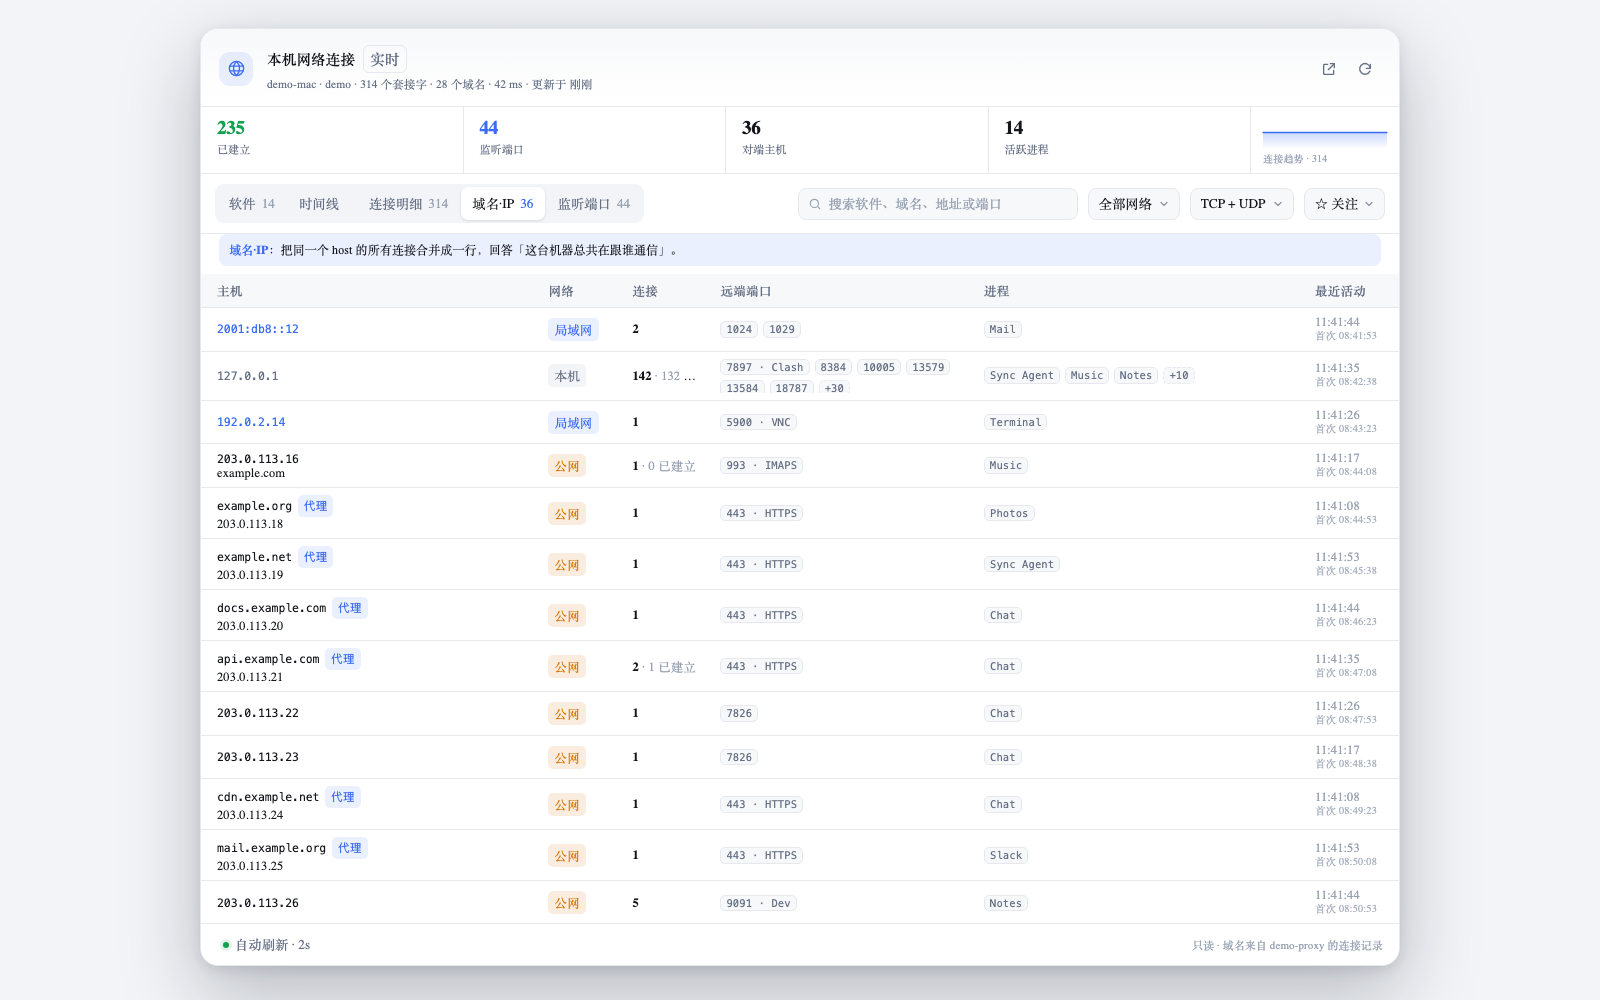
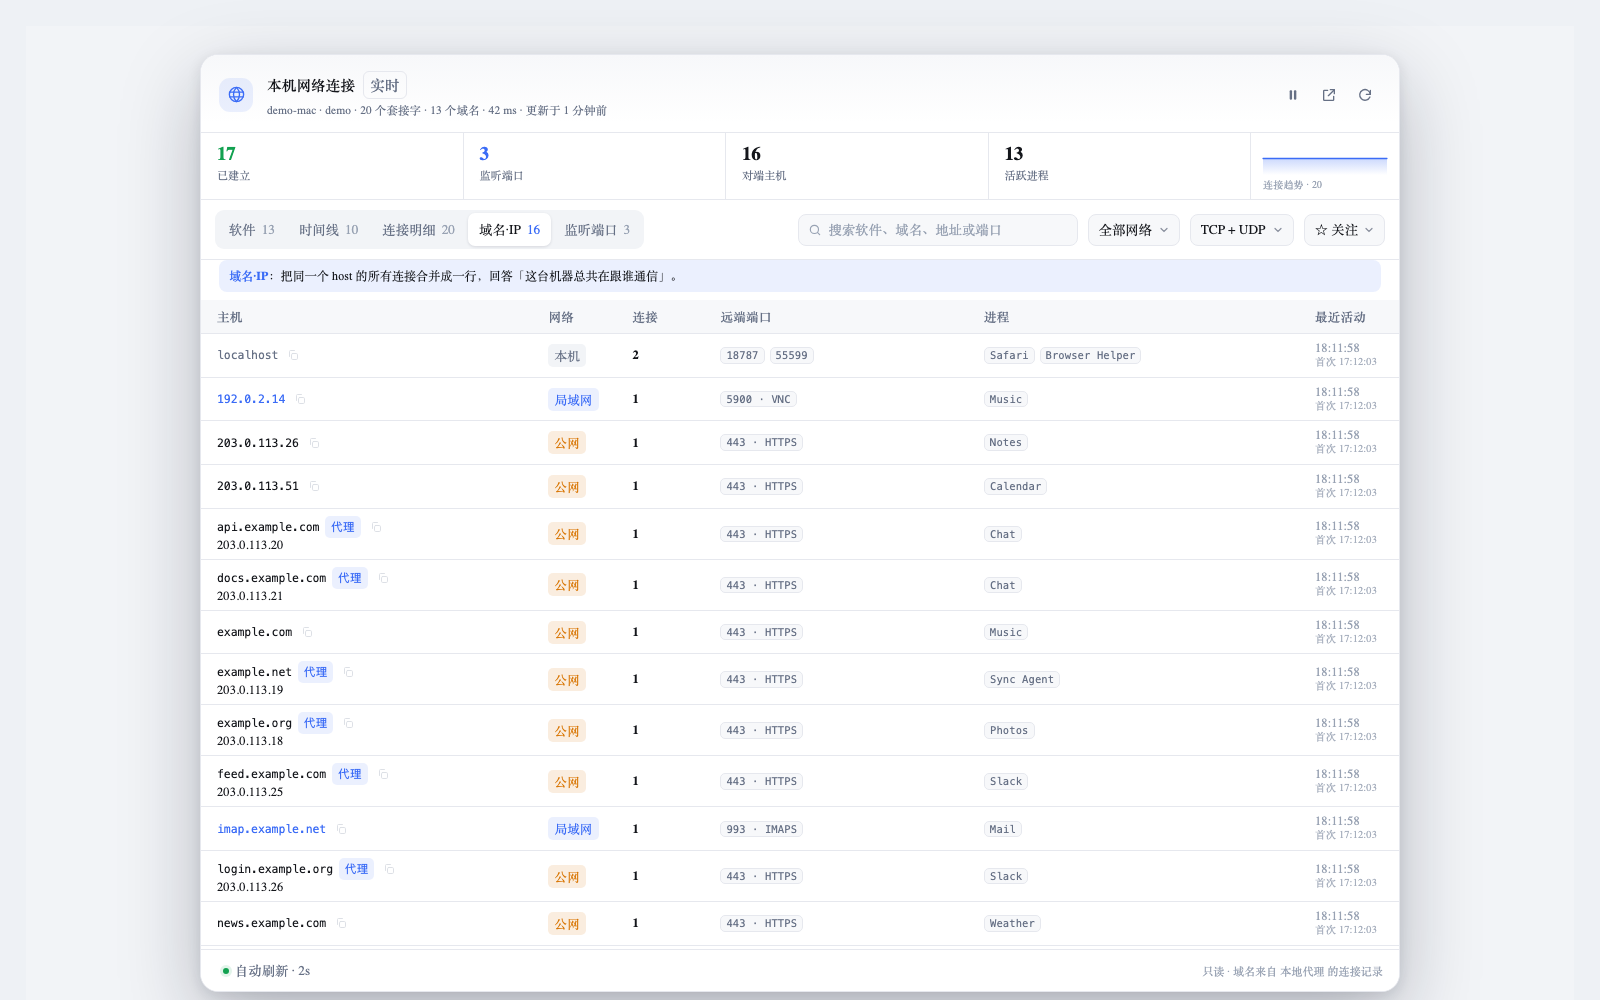
docs: 重做全部截图（合成数据）并更新 README
- 五张视图截图按当前界面重渲染：软件（含复制全部 host）、时间线（含导出）、连接明细、域名·IP、暗色
- 新增暂停态截图，说明「数据停在 HH:MM:SS」
- README 加 npm/license/platform 徽章与「最近更新」，修正宿主插件职责描述
- 暂停时立即刷新副标题，不再挂着「更新于 N 秒前」
- 「软件」详情只对纯 IP 连接单列 IP 行，避免经代理的域名后面跟着一排「—」

diff --git a/lib/ui.js b/lib/ui.js
@@ -1323,6 +1323,8 @@
       if (frozenAt) {
         frozenAt.textContent = view.paused && view.snapshot && view.snapshot.ts ? clockTime(view.snapshot.ts) : '—'
       }
+      // 暂停期间不会再拉快照，副标题必须当场改掉，否则会一直挂着「更新于 12 秒前」。
+      if (view.snapshot && view.snapshot.ts) renderStats()
       if (!view.paused && !options.silent) fetchSnapshot(true)
     }
 
@@ -1593,7 +1595,9 @@
             <td class="nh-when">${clockTime(item.lastSeen)}${gone ? `<span class="nh-rel">${relTime(item.lastSeen)}</span>` : ''}</td>
           </tr>`
       }).join('')
-      const ipRows = [...app.ips].map((ip) => `<tr>
+      // 只在没有域名时单列直连 IP：经代理拿到的目标 IP 已经跟在域名后面，
+      // 再列一行只会是一排「—」，没有信息量。
+      const ipRows = (app.domains.size ? [] : [...app.ips]).map((ip) => `<tr>
             <td><span class="nh-chip ip">${esc(ip)}</span><button class="nh-copy" data-copy="${esc(ip)}" title="复制 ${esc(ip)}" aria-label="复制 ${esc(ip)}">${ICONS.copy}</button></td>
             <td>—</td><td class="nh-when">—</td><td class="nh-when">—</td>
           </tr>`).join('')

diff --git a/README.md b/README.md
@@ -1,5 +1,9 @@
 # dsh-net-hosts
 
+[![npm](https://img.shields.io/npm/v/dsh-net-hosts.svg)](https://www.npmjs.com/package/dsh-net-hosts)
+[![license](https://img.shields.io/badge/license-MIT-blue.svg)](LICENSE)
+[![platform](https://img.shields.io/badge/platform-macOS-lightgrey.svg)](#安装)
+
 查看本机网络连接与对端主机的 DSH 插件。
 
 它把 `lsof -i` 的套接字表整理成两件事：一个随时可以点开的**实时面板**，和一个给 Agent 用的 **`net_connections` 工具**。整个插件只读——不建立连接、不修改配置、没有遥测。数据默认只留在本机内存里（唯一的例外是模型工具，见下面的「隐私」一节）。
@@ -21,6 +25,8 @@
 - 每个视图上方都有一句话解释它和别的视图的区别，不用记概念。
 - 搜索（软件、域名、地址、端口）、按网络范围筛选（公网 / 局域网 / 本机）、按 TCP/UDP 筛选、点表头排序、展开行看完整信息、一键复制地址。
 - **暂停**：面板右上角的 ⏸（或按 `P`，或点底部「自动刷新 · 2s」）把数据定格，顶部出现「已暂停 · 数据停在 14:52:16」；暂停状态会记住，下次打开仍是暂停。刷新时滚动位置和展开的行都不会跳。
+
+  ![已暂停](docs/paused.png)
 - **复制**：表格里的文字可以直接拖选（选中不会触发行点击），每行末尾也有复制按钮，复制 host、IP 或整条地址。想一次拿走某个软件的全部 host？点这一行域名后面的图标，或展开后点「复制全部 host（N）」——一行一个，直接粘到别处。
 - **刚断开的不会立刻消失**：某个 App 下的 host 断开后会标「已断开」保留两分钟，配合暂停足够看清「它刚才在连什么」。
 - 2 秒自动刷新；页面隐藏时自动暂停；也可以手动暂停/刷新。
@@ -79,7 +85,7 @@ dsh plugin --profile web add link:~/dsh-plugins/dsh-net-hosts
 | `/net-hosts/` | 独立页面（Shadow DOM 渲染） |
 | `/net-hosts/ui.js` | 面板脚本 |
 | `/net-hosts/api/snapshot` | 快照 JSON；`?fresh=1` 跳过 700ms 复用窗口 |
-| `/net-hosts/api/health` | `{ ok, name, version }` |
+| `/net-hosts/api/health` | `{ ok, name, version, ui }`（`ui` 是 `ui.js` 的指纹，界面据此自动重载） |
 
 鉴权由插件自己做：Host 必须是回环地址（或 `DSH_NET_HOSTS_TRUSTED_HOSTS` / `DSHW_TRUSTED_HOSTS` 里列出的主机）、拒绝 `Sec-Fetch-Site: cross-site`、Origin 必须与 Host 一致，异常一律按拒绝处理（fail-closed）；存在 `connection` 服务时再叠加它的 `requestRejection`。403 时不返回任何内容。
 
@@ -120,7 +126,16 @@ npm test
 - `lib/proxy.js`：本地代理（Clash / mihomo）控制接口发现、`/connections` 归一化；配置、unix socket、常见端口三种发现方式，失败静默。
 - `lib/client.js`：client bundle，向 DSH 注册侧边栏项与主区域面板。
 - `lib/ui.js`：零依赖的 Shadow DOM 界面（软件 / 时间线 / 连接明细 / 域名·IP / 监听端口 五个视图，其中「软件」按进程聚合），暴露 `window.__DSH_NET_HOSTS_UI__.mount(target, { standalone, embedded })`；内含兼容旧宿主的客户端事件推导与按名归并兜底。
-- `lib/index.js`：宿主插件，注册路由、注入入口、注册模型工具。
+- `lib/index.js`：宿主插件，注册 HTTP 路由、注册模型工具、把 client bundle 接进侧边栏。
+
+## 最近更新
+
+- **0.7.1**：时间线可以导出 CSV / JSON，也能一键复制全部 host；暂停后副标题立刻显示「数据停在 …」。
+- **0.7.0**：去掉页面里的悬浮胶囊，入口只保留侧边栏；`net_connections` 增加 `redact`，可以只把地址交给模型；README 补「隐私」一节。
+- **0.6.4**：一次复制某个软件下的全部 host；修掉行尾复制图标被压成 6px 的问题。
+- **0.6.3**：内嵌在侧边栏时 `P` 键才真正生效（以前只有弹窗模式注册了键盘监听）。
+- **0.6.2**：暂停可记住、表格文字可拖选、刚断开的 host 保留两分钟、刷新不再跳。
+- **0.6.0**：时间线加「持续」时长与最近 12 小时分布。
 
 ## 上架 dsh-market
 
